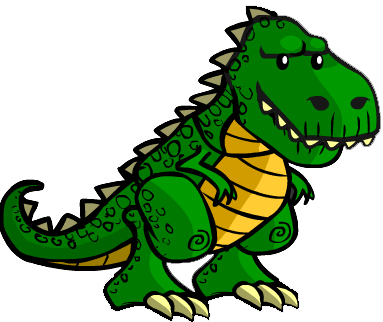
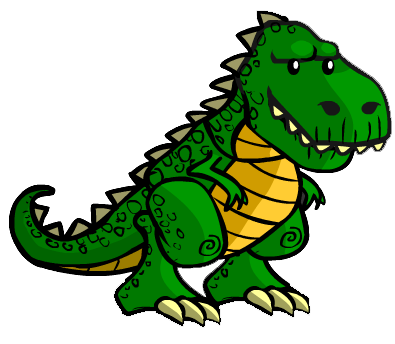
Pictures, HTML and CSS, Animation, html to PHP
Added new pictures and deleted  old ones.

Deleted some HTML so that the new animations could work properly.

Added, deleted and structured CSS. Added new animations to the predator, the human and the logo.  Added in some of Linas HTML and CSS to the search bar, but not all yet.

Edited my index.html to index.php so that i can work with the other pages.

Changed region(s): [[0.0, 0.0, 1.0, 1.0], [0.8042, 0.2795, 0.8616, 0.3416], [0.8903, 0.1863, 0.9191, 0.2174]]

diff --git a/css/styles.css b/css/styles.css
@@ -12,21 +12,7 @@ body {
   font-family: Helvetica, sans-serif;
   overflow: hidden;
   background-image: url(../images/cartoonbg.jpg);
- /* background-repeat: no-repeat;
-  background-position: center top;
-  background-attachment: fixed;
-  animation: animatedBackground 60s linear infinite;
-  -webkit-animation: animatedBackground 60s linear infinite;
-  -moz-animation: animatedBackground 60s linear infinite;
-  -ms-animation: animatedBackground 60s linear infinite;
 }
-
-@-webkit-keyframes animatedBackground 
-{
-  from { background-position: 0 100%; }
-  to { background-position: 100% 100%; }
-} */
-
 
 /* CSS Grid */
 .item1 {
@@ -91,4 +77,105 @@ body {
 .shake {
   animation-delay: 1.9s;
 }
-/*# sourceMappingURL=styles.css.map */
+
+/* ----------------- Search Field Grid ---------------------*/
+.mainArea1--searchField {
+  display: grid;
+  grid-template-areas: 
+  "left center right";
+  grid-template-columns: 1fr 1fr 1fr;
+  justify-content: space-around;
+  align-content: center;
+}
+
+.mainArea1--searchField-left {
+grid-area: left;
+grid-column-start: 1;
+height: 30vh;
+}
+
+.mainArea1--searchField-center {
+grid-area: center;
+display: flex;
+justify-content: center;
+align-items: center;
+grid-column-start: 2;
+height: 30vh;
+}
+.mainArea1--searchField-right {
+grid-area: right;
+grid-column-start: 3;
+height: 30vh;
+}
+
+/* ------------------ Background Grid ---------------------*/
+.mainArea1--background {
+  display: grid;
+  /*width: 100vw;*/
+  grid-template-areas: 
+  "left center right"
+  "bottom bottom bottom";
+  grid-template-columns: 1fr 1fr 1fr;
+  /*justify-content: space-around;
+  align-content: center;*/
+}
+
+.mainArea1--background-left {
+grid-area: left;
+
+grid-area: left;
+text-align: right;
+}
+#predatorrex {
+  width: 57%;
+}
+
+.mainArea1--background-center {
+grid-area: center;
+
+margin: 0;
+padding: 0;
+grid-area: center;
+}
+.mainArea1--background-right {
+grid-area: right;
+margin: 0;
+padding: 0;
+}
+#humanrun {
+  width: 40%;
+ }
+
+.mainArea1--background-bottom {
+  grid-area: bottom;
+  /*grid-row-start: 2;*/
+  margin: 0;
+  height: 20vh;
+  /*width: 100vw;*/
+box-sizing: border-box;
+background:
+radial-gradient(circle at 0% 50%, rgba(96, 16, 48, 0) 9px, #613 10px, rgba(96, 16, 48, 0) 11px) 0px 10px,
+radial-gradient(at 100% 100%,      rgba(96, 16, 48, 0) 9px, #613 10px, rgba(96, 16, 48, 0) 11px),
+#8a3;
+background-size: 20px 20px;
+}
+
+.inputMeal {
+  height: 22px;
+  /*border-width: 4px;
+  border-color: #f6d24d;
+  border-style: outset;*/
+}
+.inputMeal:focus {
+  outline: none;
+}
+.submitMeal {
+  width: 60px;
+  height: 30px;
+  color: white;
+  background: #ADD100;  /* fallback for old browsers */
+background: -webkit-linear-gradient(to right, #7B920A, #ADD100);  /* Chrome 10-25, Safari 5.1-6 */
+background: linear-gradient(to right, #7B920A, #ADD100); /* W3C, IE 10+/ Edge, Firefox 16+, Chrome 26+, Opera 12+, Safari 7+ */
+border-width: 4px;
+border-color: #f6d24d;
+}

diff --git a/css/styles.min.css b/css/styles.min.css
@@ -1,1 +1,1 @@
-body{font-family:Helvetica,sans-serif;overflow:hidden;background-image:url(../images/cartoonbg.jpg)}.item2{grid-area:search}.item3{grid-area:predator}.item4{grid-area:human}.grid-container{display:grid;grid-template-areas:'logo logo' 'search search' 'predator human';grid-gap:20px;padding:10px}.grid-container>div{text-align:center;font-size:30px}.t-rex{padding-top:25%;width:45%}.human{padding-top:40%;width:25%}.zoomIn{animation-duration:1s;animation-delay:.5s}.jello{animation-delay:1.1s}.swing{animation-delay:.2s}.tada{animation-delay:1.3s;animation-duration:1.2s}.shake{animation-delay:1.9s}
+body{font-family:Helvetica,sans-serif;overflow:hidden;background-image:url(../images/cartoonbg.jpg)}.item1{grid-area:logo}.item2{grid-area:search}.item3{grid-area:predator}.item4{grid-area:human}.grid-container{display:grid;grid-template-areas:'logo logo' 'search search' 'predator human';grid-gap:20px;padding:10px}.grid-container>div{text-align:center;font-size:30px}.t-rex{padding-top:25%;width:45%}.human{padding-top:40%;width:25%}.zoomIn{animation-duration:1s;animation-delay:.5s}.jello{animation-delay:1.1s}.swing{animation-delay:.2s}.tada{animation-delay:1.3s;animation-duration:1.2s}.shake{animation-delay:1.9s}.mainArea1--searchField{display:grid;grid-template-areas:"left center right";grid-template-columns:1fr 1fr 1fr;justify-content:space-around;align-content:center}.mainArea1--searchField-left{grid-area:left;grid-column-start:1;height:30vh}.mainArea1--searchField-center{grid-area:center;display:flex;justify-content:center;align-items:center;grid-column-start:2;height:30vh}.mainArea1--searchField-right{grid-area:right;grid-column-start:3;height:30vh}.mainArea1--background{display:grid;grid-template-areas:"left center right" "bottom bottom bottom";grid-template-columns:1fr 1fr 1fr}.mainArea1--background-left{grid-area:left;grid-area:left;text-align:right}#predatorrex{width:57%}.mainArea1--background-center{grid-area:center;margin:0;padding:0;grid-area:center}.mainArea1--background-right{grid-area:right;margin:0;padding:0}#humanrun{width:40%}.mainArea1--background-bottom{grid-area:bottom;margin:0;height:20vh;box-sizing:border-box;background:radial-gradient(circle at 0 50%,rgba(96,16,48,0) 9px,#613 10px,rgba(96,16,48,0) 11px) 0 10px,radial-gradient(at 100% 100%,rgba(96,16,48,0) 9px,#613 10px,rgba(96,16,48,0) 11px),#8a3;background-size:20px 20px}.inputMeal{height:22px}.inputMeal:focus{outline:0}.submitMeal{width:60px;height:30px;color:#fff;background:#add100;background:-webkit-linear-gradient(to right,#7b920a,#add100);background:linear-gradient(to right,#7b920a,#add100);border-width:4px;border-color:#f6d24d}

diff --git a/index.php b/index.php
@@ -1,47 +1,73 @@
-<?php require 'includes/head.php'; ?>
-<?php require 'includes/header.php'; ?>
-<!--Popup-->
-<span class="window--alert none conditionalClose "><p>Unfortunately we don't have your product. Do you want to add it?</p>
-		<div class="grid-container--buttons">
-		<div class="button button--ok">OK</div>
-		<div class="button button--cancel">CANCEL</div>
+<!DOCTYPE html>
+<html lang="en">
+<html>
+<head>
+	<!-- Title -->
+	<title>Macaronithon - How far can you run before you get eaten.</title>
+
+	<!-- Description -->
+	<meta name="description" content="Macaronithon is an online web application where you can see how far you can run on different kinds of food. Just made in a new and fun way!">
+
+	<!-- Keywords -->
+	<meta name="keywords" content="HTML,CSS,JavaScript">
+
+	<!-- Viewport -->
+	<meta name="viewport" content="width=device-width, initial-scale=1.0">
+
+	<!-- Favicons -->
+	<link rel="icon" type="image/png" href="favicon-32x32.png" sizes="32x32" />
+	<link rel="icon" type="image/png" href="favicon-16x16.png" sizes="16x16" />
+
+
+	<!-- CSS & SASS -->
+	<link rel="stylesheet" type="text/css" href="sass/styles.scss">
+	<link rel="stylesheet" type="text/css" href="css/animate.css">
+	<link rel="stylesheet" type="text/css" href="css/styles.css">
+
+</head>
+<body>
+
+	<!-- Grid start -->
+<div class="grid-container">
+
+	<!-- Header if needed 
+	<header>
+	</header>
+	-->
+
+	<!-- Front page logo/name -->
+	<div class="item1">
+        <div class="animated bounceInDown">
+        	<h1 id="frontname">Macaronithon(insert logo)</h1>
+			<p id="fronttext">How far can you run before you get eaten</p>
 		</div>
-		</span>
-		
-<main class="mainArea1">
-	
-	<section class="mainArea1--searchField">
+	</div>
 
-		<div class="mainArea1--searchField-left"></div>
-		<div class="mainArea1--searchField-center">
-			<input onclick="getLowercase()" class="awesomplete inputMeal" placeholder="Search for the meal" data-list="pizza, hamburger">
-			<button class="submitMeal"><span>Go!</span></button>
-		</div>
-		<div class="mainArea1--searchField-right"></div>
-	</section>
+	<!-- Search bar -->
+	<div class="item2">
+		<input type="text" placeholder="Search..">
+	</div>
 
-	<section class="mainArea1--background">
-		<div class="mainArea1--background-left"><img id="predatorrex" src="img/predatorrex.png" alt="Predator" width="300px"></div>
-		<div class="mainArea1--background-center"></div>
-		<div class="mainArea1--background-right"><img id="humanrun" src="img/humanrun.png" alt="Predator" width="200px"></div>
-		<div class="mainArea1--background-bottom"></div>
-		
-	</section>
+	<!-- Pictures of the predator and human -->
+	<div class="item3">
+        <div class="animated tada">
+			<img src="images/predatorrex.png" alt="Predator hunting running human" title="T-rex" class="animated zoomIn t-rex">
+        </div>
+	</div>
 
-</main>
-<script>
-	function getLowercase() {
-		var lowercaseValue = document.getElementsByClassName("inputMeal")[0].value;
-		var res = str.toLowerCase();
-	}
-</script>
-<script src="https://ajax.googleapis.com/ajax/libs/jquery/3.3.1/jquery.min.js"></script>
-<script src="js/awesomplete.min.js"></script>
-<script src="js/getmeal.js" type="text/javascript"></script>
-<script src="js/popup.js" type="text/javascript"></script>
+	<div class="item4">
+        <div class="animated shake">
+    		<img src="images/humanrun.png" alt="Human running from predator" title="Human" class="animated zoomIn jello human">
+        </div>
+	</div>
 
-<?php include 'includes/footer.php'; ?>
+	<!-- Footer if needed-->
+	<footer>
+		<!-- I was thinking social media link or something maybe -->
+	</footer>
 
-
-
-
+</div>
+	<!-- Scripts -->
+	<script src="#"></script>
+</body>
+</html>

diff --git a/index1.php b/index1.php
@@ -1,0 +1,47 @@
+<?php require 'includes/head.php'; ?>
+<?php require 'includes/header.php'; ?>
+<!--Popup-->
+<span class="window--alert none conditionalClose "><p>Unfortunately we don't have your product. Do you want to add it?</p>
+		<div class="grid-container--buttons">
+		<div class="button button--ok">OK</div>
+		<div class="button button--cancel">CANCEL</div>
+		</div>
+		</span>
+		
+<main class="mainArea1">
+	
+	<section class="mainArea1--searchField">
+
+		<div class="mainArea1--searchField-left"></div>
+		<div class="mainArea1--searchField-center">
+			<input onclick="getLowercase()" class="awesomplete inputMeal" placeholder="Search for the meal" data-list="pizza, hamburger">
+			<button class="submitMeal"><span>Go!</span></button>
+		</div>
+		<div class="mainArea1--searchField-right"></div>
+	</section>
+
+	<section class="mainArea1--background">
+		<div class="mainArea1--background-left"><img id="predatorrex" src="img/predatorrex.png" alt="Predator" width="300px"></div>
+		<div class="mainArea1--background-center"></div>
+		<div class="mainArea1--background-right"><img id="humanrun" src="img/humanrun.png" alt="Predator" width="200px"></div>
+		<div class="mainArea1--background-bottom"></div>
+		
+	</section>
+
+</main>
+<script>
+	function getLowercase() {
+		var lowercaseValue = document.getElementsByClassName("inputMeal")[0].value;
+		var res = str.toLowerCase();
+	}
+</script>
+<script src="https://ajax.googleapis.com/ajax/libs/jquery/3.3.1/jquery.min.js"></script>
+<script src="js/awesomplete.min.js"></script>
+<script src="js/getmeal.js" type="text/javascript"></script>
+<script src="js/popup.js" type="text/javascript"></script>
+
+<?php include 'includes/footer.php'; ?>
+
+
+
+
